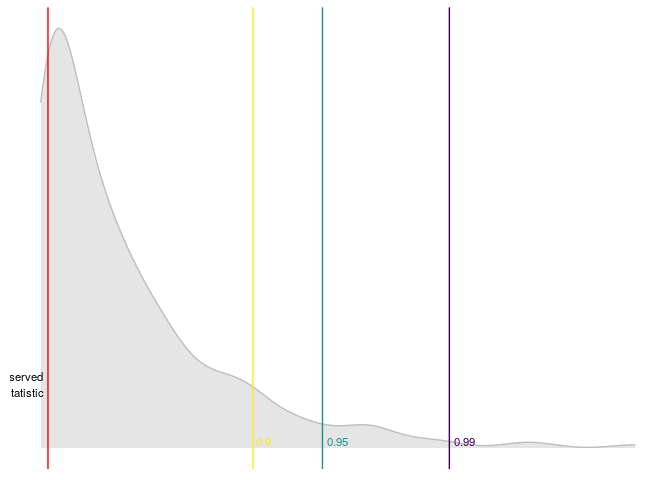
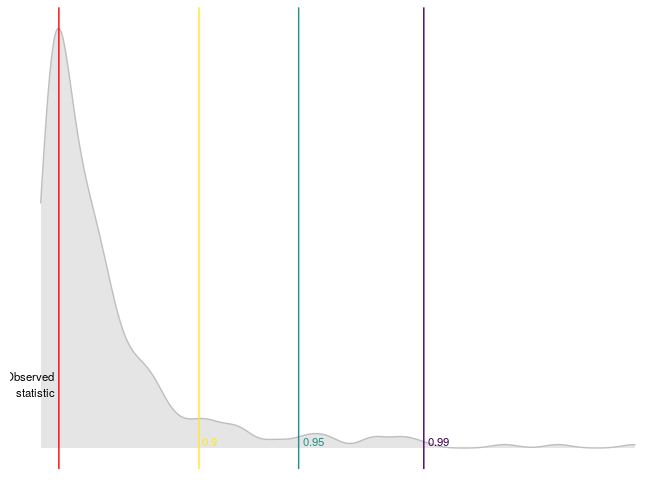
Updating version

Changed region(s): [[0.0, 0.0, 0.7188, 0.9688], [0.75, 0.9062, 0.8125, 0.9375], [0.875, 0.9062, 0.9062, 0.9375]]

diff --git a/README.md b/README.md
@@ -5,6 +5,7 @@
 
 <!-- badges: start -->
 
+![R-CMD-check](https://github.com/FedericoGarza/linearspectestr/workflows/R-CMD-check/badge.svg)
 [![Maintenance](https://img.shields.io/badge/Maintained%3F-yes-green.svg)](https://GitHub.com/FedericoGarza/linearspectestr/commits)
 [![MIT
 license](https://img.shields.io/badge/License-MIT-blue.svg)](https://lbesson.mit-license.org/)
@@ -57,10 +58,10 @@ dplyr::glimpse(dl_test$test)
 #> $ name_distribution <chr> "rnorm"
 #> $ name_statistic    <chr> "cvm_value"
 #> $ statistic         <dbl> 7.562182e-29
-#> $ p_value           <dbl> 0.3833333
-#> $ quantile_90       <dbl> 2.681806e-28
-#> $ quantile_95       <dbl> 4.058283e-28
-#> $ quantile_99       <dbl> 5.350507e-28
+#> $ p_value           <dbl> 0.4133333
+#> $ quantile_90       <dbl> 2.437899e-28
+#> $ quantile_95       <dbl> 3.943113e-28
+#> $ quantile_99       <dbl> 7.069412e-28
 ```
 
 Also `linearspectestr` can plot the results
@@ -90,10 +91,10 @@ dplyr::glimpse(dl_test_p$test)
 #> $ name_distribution <chr> "rnorm"
 #> $ name_statistic    <chr> "cvm_value"
 #> $ statistic         <dbl> 6.324343e-21
-#> $ p_value           <dbl> 0.3233333
-#> $ quantile_90       <dbl> 1.604743e-20
-#> $ quantile_95       <dbl> 2.060992e-20
-#> $ quantile_99       <dbl> 4.672057e-20
+#> $ p_value           <dbl> 0.3433333
+#> $ quantile_90       <dbl> 1.72606e-20
+#> $ quantile_95       <dbl> 2.523203e-20
+#> $ quantile_99       <dbl> 3.641144e-20
 ```
 
 #### *RESET* test can also be used to test the linear hypothesis
@@ -113,8 +114,8 @@ r_test <- reset_test(lm_model)
 dplyr::glimpse(r_test)
 #> Observations: 1
 #> Variables: 6
-#> $ statistic   <dbl> 1.969437
-#> $ p_value     <dbl> 0.3735444
+#> $ statistic   <dbl> 0.1608255
+#> $ p_value     <dbl> 0.9227354
 #> $ df          <int> 2
 #> $ quantile_90 <dbl> 4.60517
 #> $ quantile_95 <dbl> 5.991465
